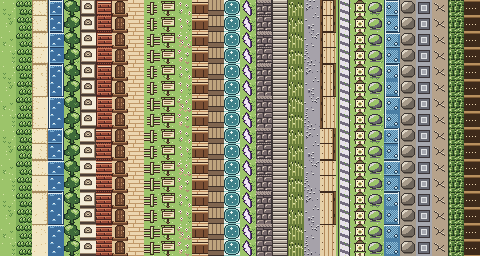
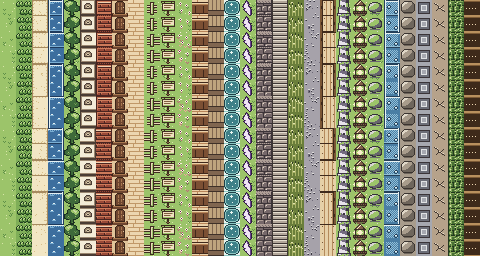
feat(art): redraw the lighthouse - tapered striped shaft, gallery, glowing lantern
The LAMP and TOWER tiles in tools/art/gen_tiles.py are redrawn: a domed cap
with finial, a lit lens with rays, a railed gallery, a tapered spiral-striped
shaft with left highlight and right shade, and a stone plinth above the door.
Era I and Era II atlases regenerated from the generator.

Changed region(s): [[0.6875, 0.0, 0.7812, 1.0]]

diff --git a/tools/art/gen_tiles.py b/tools/art/gen_tiles.py
@@ -396,36 +396,64 @@ def pier(c: Canvas, ox: int, oy: int, mask: int) -> None:
         c.hline(ox + x0, ox + x1, oy, 0)
 
 
+def _tower_row(c: Canvas, ox: int, oy: int, y: int) -> None:
+    # One row of the lighthouse shaft: tapers from 10 px at the top to 12 px at y 7, spiral
+    # bands rise to the right, the left column catches the light and the right two are shaded.
+    xl = 3 if y < 7 else 2
+    xr = 15 - xl
+    c.set(ox + xl, oy + y, 0)
+    c.set(ox + xr, oy + y, 0)
+    for x in range(xl + 1, xr):
+        band = ((y + 40 - x // 3) // 4) % 2
+        if x == xl + 1:
+            v = 2 if band else 3
+        elif x >= xr - 2:
+            v = 0 if band else 2
+        else:
+            v = 1 if band else 3
+        c.set(ox + x, oy + y, v)
+
+
 def tower(c: Canvas, ox: int, oy: int) -> None:
+    # Lighthouse shaft (and the rift pillars): striped tapered tower on a stone plinth.
     grass(c, ox, oy, 0)
-    c.rect(ox + 2, oy, 12, T, 3)
-    for y in range(0, T):
-        for x in range(2, 14):
-            if (y - x // 3) % 8 < 3:
-                c.set(ox + x, oy + y, 1)
-    c.vline(ox + 2, oy, oy + 15, 0)
-    c.vline(ox + 13, oy, oy + 15, 0)
-    c.vline(ox + 3, oy, oy + 15, 2)
+    for y in range(13):
+        _tower_row(c, ox, oy, y)
+    c.rect(ox + 7, oy + 5, 2, 2, 0)
+    c.hline(ox + 1, ox + 14, oy + 13, 0)
+    c.rect(ox + 2, oy + 14, 12, 2, 2)
+    c.vline(ox + 1, oy + 14, oy + 15, 0)
+    c.vline(ox + 14, oy + 14, oy + 15, 0)
+    c.hline(ox + 2, ox + 4, oy + 14, 3)
+    for x in (5, 10):
+        c.set(ox + x, oy + 14, 1)
+    for x in (3, 8, 12):
+        c.set(ox + x, oy + 15, 1)
+    c.set(ox + 13, oy + 14, 1)
+    c.set(ox + 13, oy + 15, 1)
 
 
 def lamp(c: Canvas, ox: int, oy: int) -> None:
+    # Lighthouse lantern room (also the camp and square lamps): domed cap, glowing lens
+    # behind mullions with short rays, a railed gallery, and the top of the striped shaft.
     grass(c, ox, oy, 1)
-    c.ascii(ox, oy, ["......0000......",
-                     ".....011110.....",
-                     "....01111110....",
+    c.ascii(ox, oy, [".......00.......",
+                     "......0130......",
+                     ".....013110.....",
+                     "....01311110....",
+                     "...0131111100...",
                      "..000000000000..",
-                     "...0333333330...",
-                     "...0303333030...",
-                     "...0333223330...",
-                     "...0332112330...",
-                     "...0332112330...",
-                     "...0333223330...",
-                     "...0303333030...",
-                     "..000000000000..",
-                     "..022222222220..",
-                     "...0333113330...",
-                     "...0331113330...",
-                     "...0333113330..."])
+                     "...0122332210...",
+                     "..302233332203..",
+                     ".33023333332033.",
+                     "..302233332203..",
+                     "...0122332210...",
+                     ".00000000000000.",
+                     ".01010110101010.",
+                     ".00000000000000.",
+                     "..011111111110..",
+                     "................"])
+    _tower_row(c, ox, oy + 16, -1)
 
 
 def rock(c: Canvas, ox: int, oy: int, variant: int) -> None:
